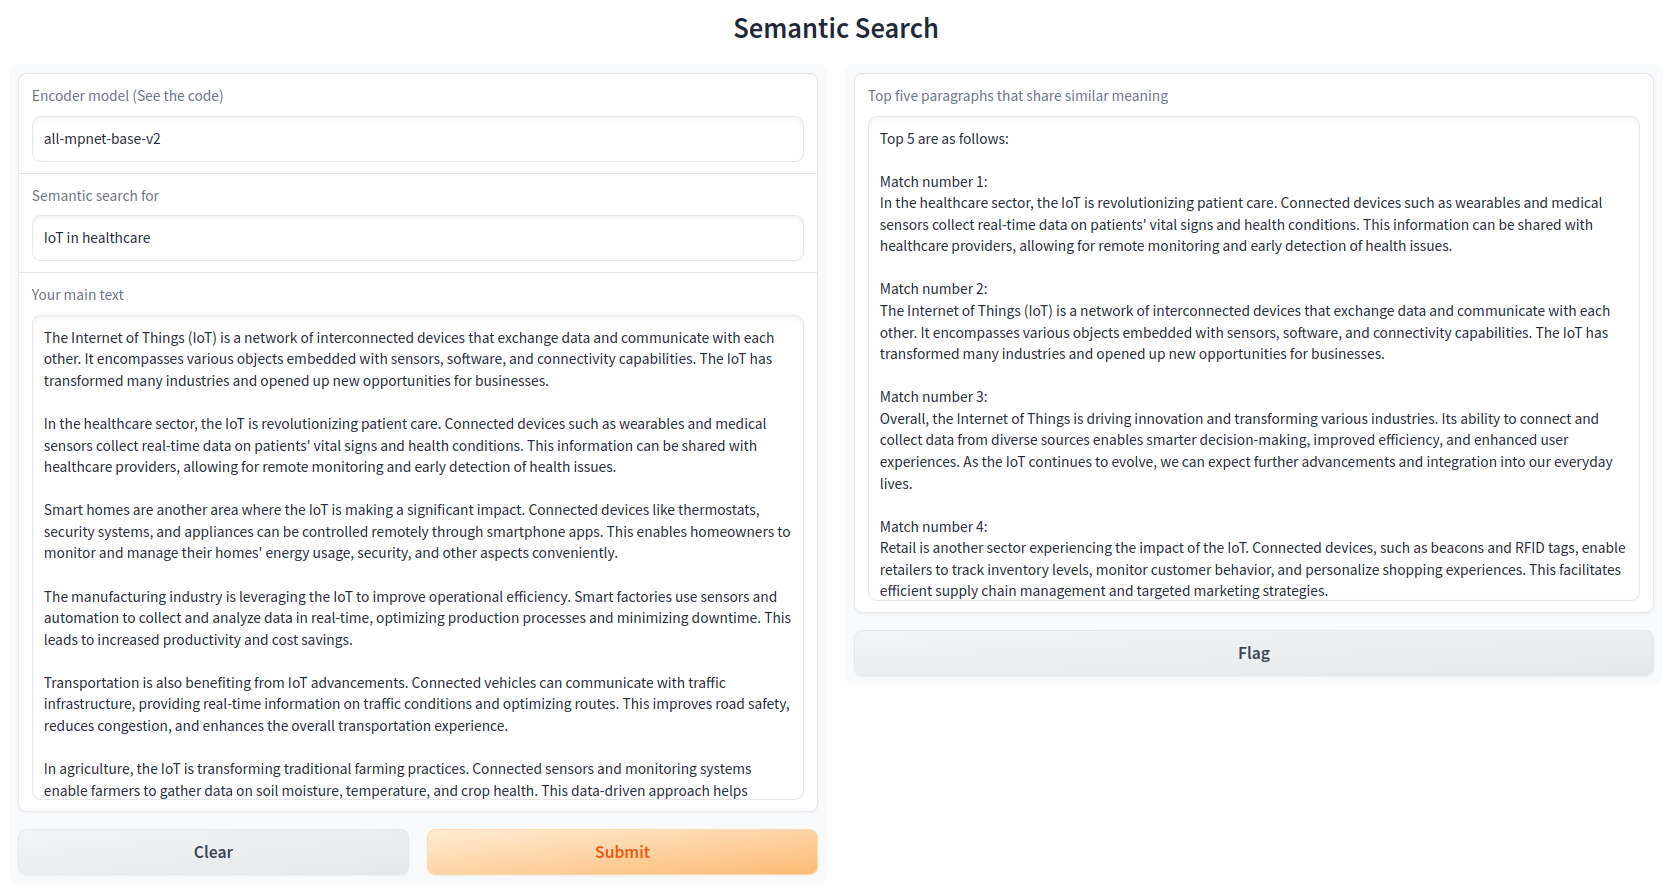
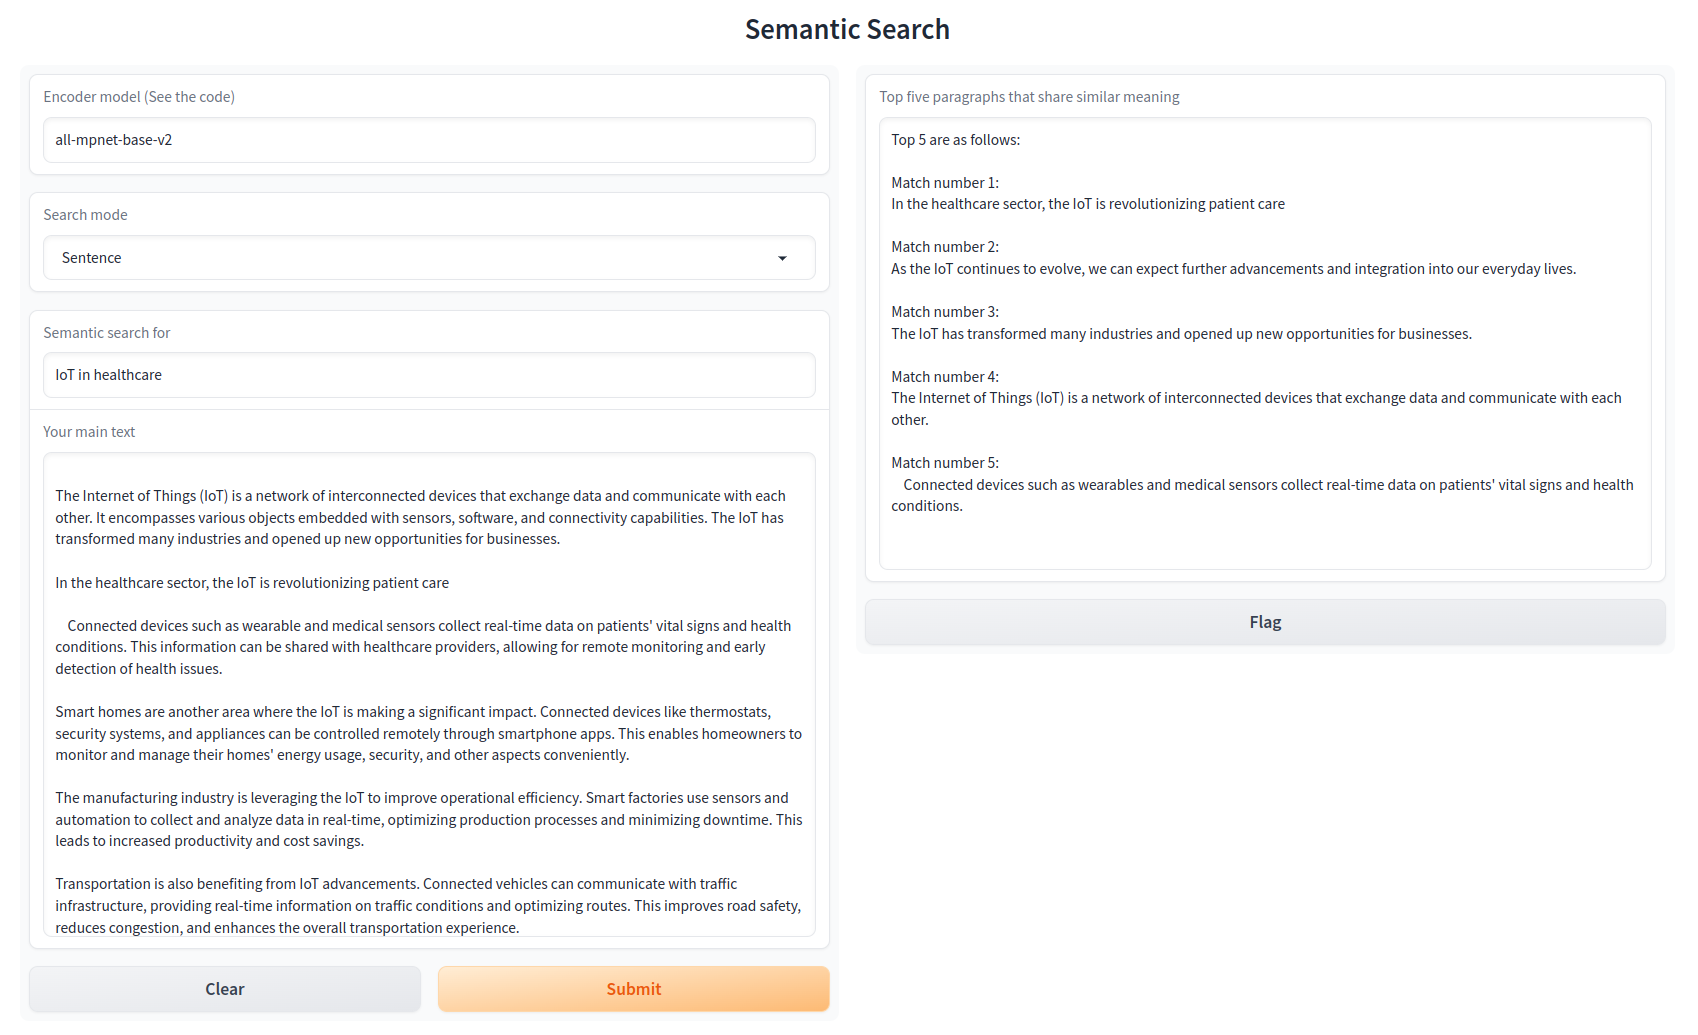
Sentence mode added

diff --git a/src/semantic_search.py b/src/semantic_search.py
@@ -9,7 +9,7 @@ import torch
 from sentence_transformers import SentenceTransformer
 from torch.nn.functional import cosine_similarity
 
-from .utils import remove_extra_newlines, separate_paragraphs
+from .utils import get_unique_sentences, remove_extra_newlines, separate_paragraphs
 
 
 def encode_text(text: List[str], model: SentenceTransformer) -> torch.Tensor:
@@ -49,13 +49,14 @@ def get_top_n_cosine_similarity_rows(
     return top_n_indices
 
 
-def semantic_search(model_name: str, searching_for: str, text: str) -> str:
+def semantic_search(model_name: str, mode: str, searching_for: str, text: str) -> str:
     """
     Perform semantic search by measuring the similarity between the
     searching_for text and the text corpus.
 
     Args:
         model_name (str): The name of the SentenceTransformer model.
+        mode (str): Search for most similar sentences or paragraphs?
         searching_for (str): The text to search for.
         text (str): The corpus of text to search in.
 
@@ -66,8 +67,11 @@ def semantic_search(model_name: str, searching_for: str, text: str) -> str:
     model = SentenceTransformer(model_name).to(device)
 
     text = remove_extra_newlines(text)
-    text = separate_paragraphs(text)
-    searching_for = remove_extra_newlines(searching_for)
+    if mode == "Paragraph":
+        text = separate_paragraphs(text)
+    elif mode == "Sentence":
+        text = get_unique_sentences(text)
+
     search_and_text = [searching_for]
     search_and_text.extend(text)
 

diff --git a/src/utils.py b/src/utils.py
@@ -4,7 +4,7 @@ Utils File
 This file contains utility functions for text processing.
 
 """
-
+import re
 from typing import List, Optional
 
 
@@ -52,3 +52,25 @@ def separate_paragraphs(text: str) -> List[str]:
     """
     paragraphs = text.split("\n")
     return paragraphs
+
+
+def get_unique_sentences(text: str) -> List[str]:
+    """
+    Split the input text into sentences, remove leading empty lines,
+    and return a list of unique sentences.
+
+    Args:
+        text (str): The input text containing sentences.
+
+    Returns:
+        List[str]: A list of unique sentences.
+
+    """
+    text = text.lstrip("\n")  # Remove leading empty lines
+    sentences = re.split(r"(?<=[.!?])\s+|\n", text)
+    print(sentences)
+    unique_sentences = list(set(sentences))
+    # unique_sentences = [
+    #     sentence for sentence in unique_sentences if sentence.strip() != ""
+    # ]
+    return unique_sentences

diff --git a/app.py b/app.py
@@ -23,6 +23,9 @@ text_example = read_string_from_file("./example/text_example.txt")
 model_name = gr.Textbox(
     value="all-mpnet-base-v2", label="Encoder model (See the code)"
 )  # find the list here: https://www.sbert.net/docs/pretrained_models.html
+mode = gr.Dropdown(
+    choices=["Sentence", "Paragraph"], value="Sentence", label="Search mode"
+)
 searching_for = gr.Textbox(value="IoT in healthcare", label="Semantic search for")
 text = gr.Textbox(value=text_example, label="Your main text")
 
@@ -35,7 +38,7 @@ if __name__ == "__main__":
     iface = gr.Interface(
         fn=semantic_search,
         title="Semantic Search",
-        inputs=[model_name, searching_for, text],
+        inputs=[model_name, mode, searching_for, text],
         outputs=[out],
     )
 

diff --git a/README.md b/README.md
@@ -4,7 +4,7 @@
 [![Semgrep](https://github.com/FzS92/Semantic_Search/actions/workflows/semgrep.yml/badge.svg)](https://github.com/FzS92/Semantic_Search/actions/workflows/semgrep.yml)
 # Semantic Search
 
-This is a semantic search contains a Python code that compares the encoded representation of the query with the encoded representation of each paragraph in the context and selects the top k most similar results.
+This repository contains a Python code that utilizes semantic search. It compares the encoded representation of a query with the encoded representation of each sentence or paragraph in a given context and selects the top k most similar results.
 
 ## Installation
 
@@ -26,7 +26,7 @@ pip install -r requirements.txt
 ```python
 python app.py
 ```
-2. Open the web interface and enjoy the search! 
+2. Open the web interface and specify your desired search mode, whether it be paragraph or sentence, and enjoy the search! 
 
 ![App Screenshot](./screenshots/app_screenshot.png)
 
